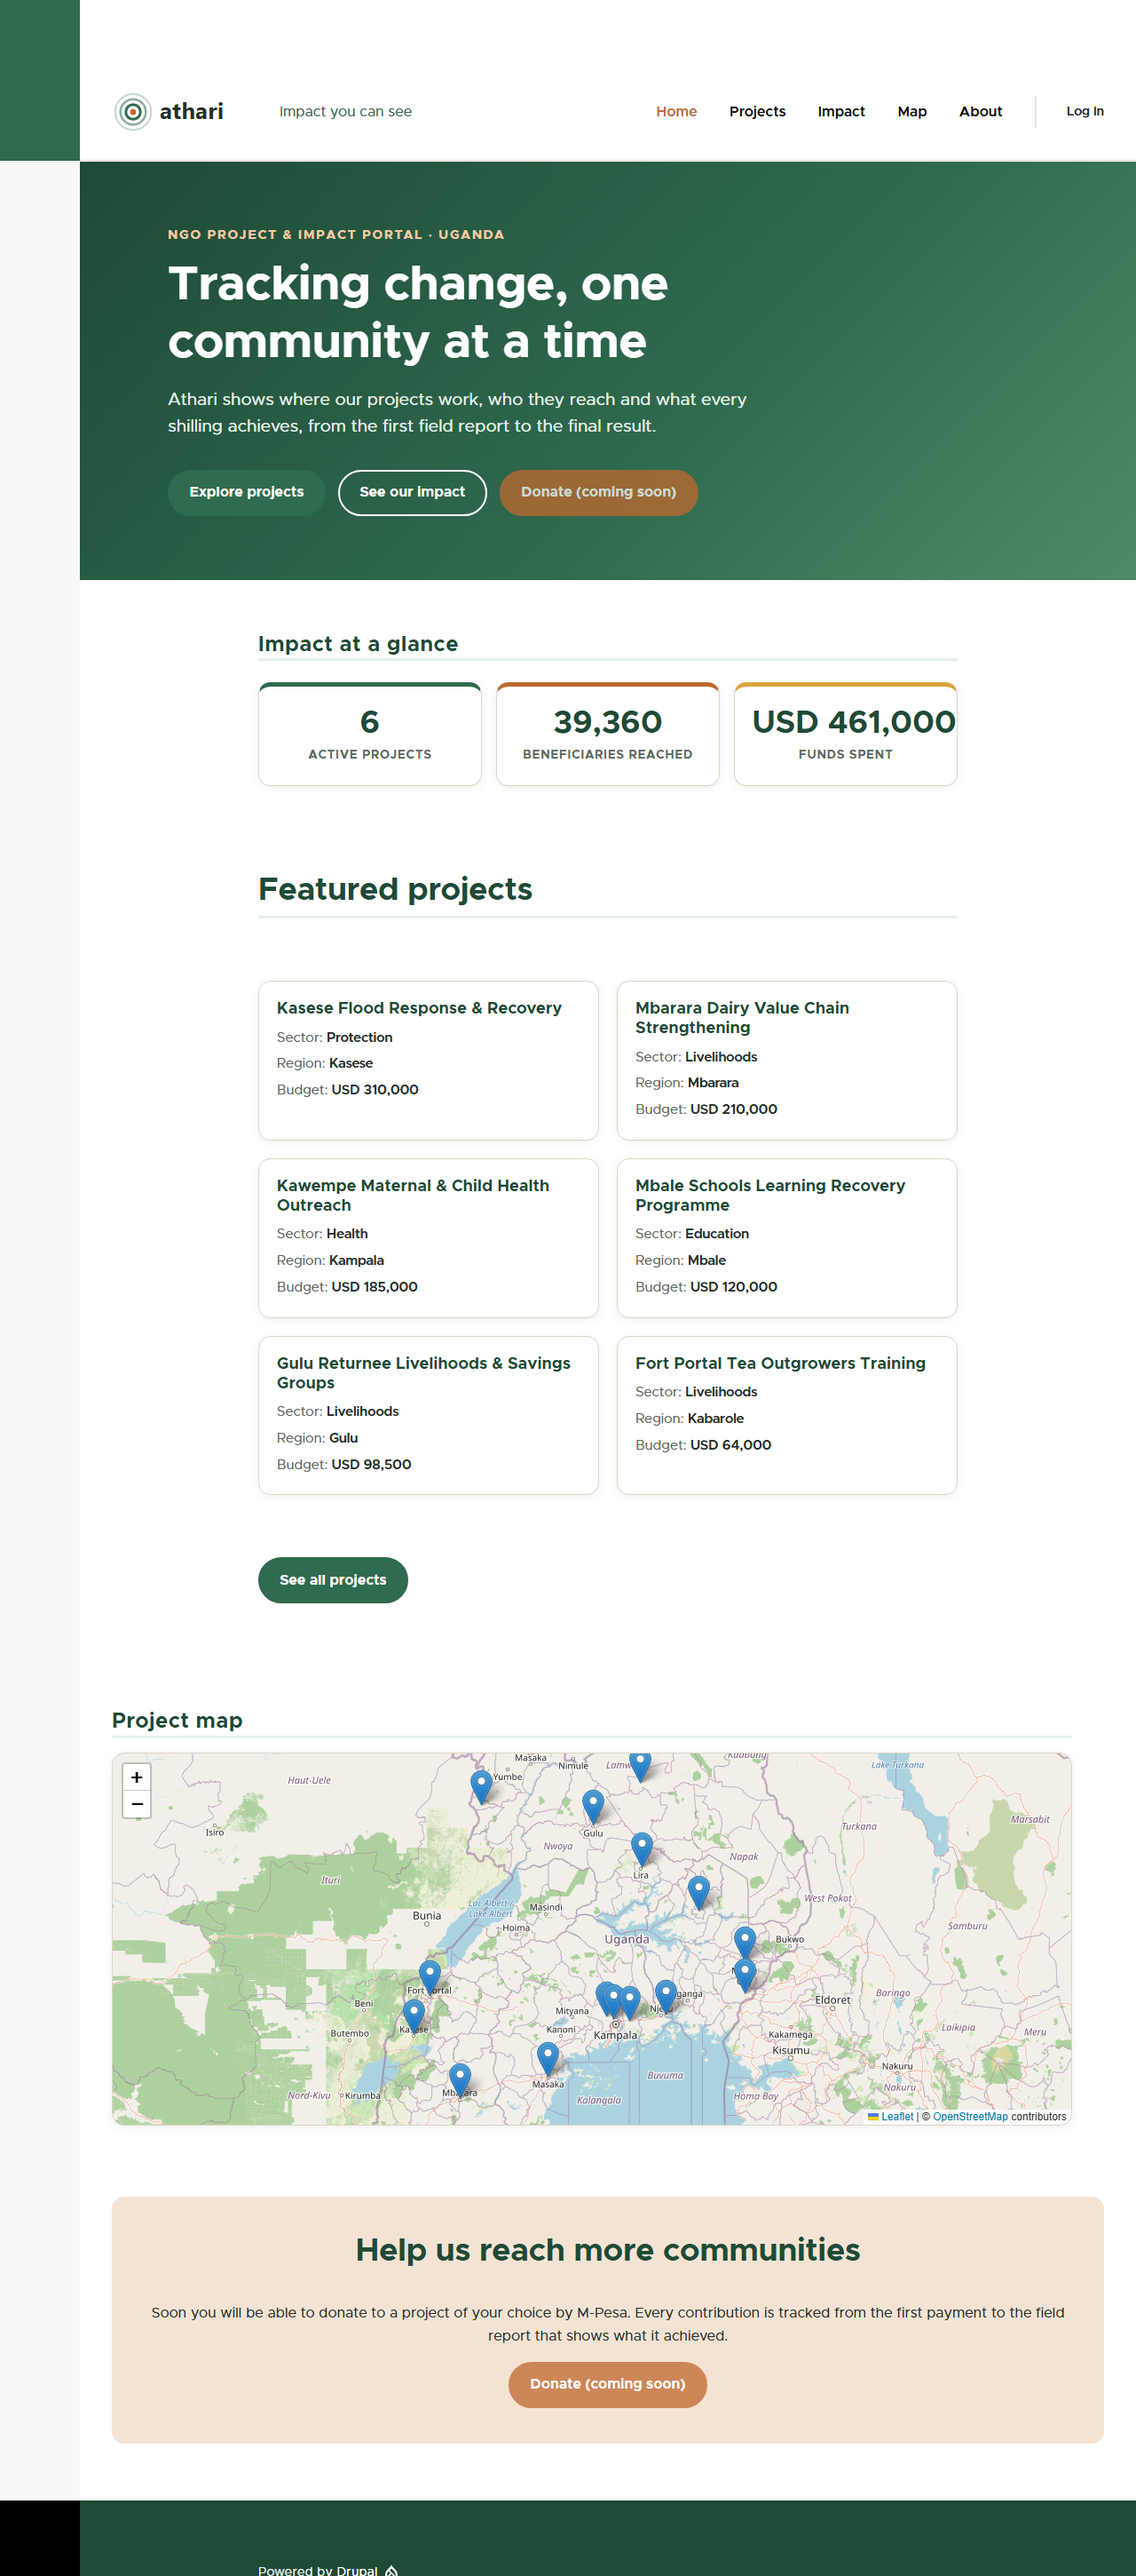
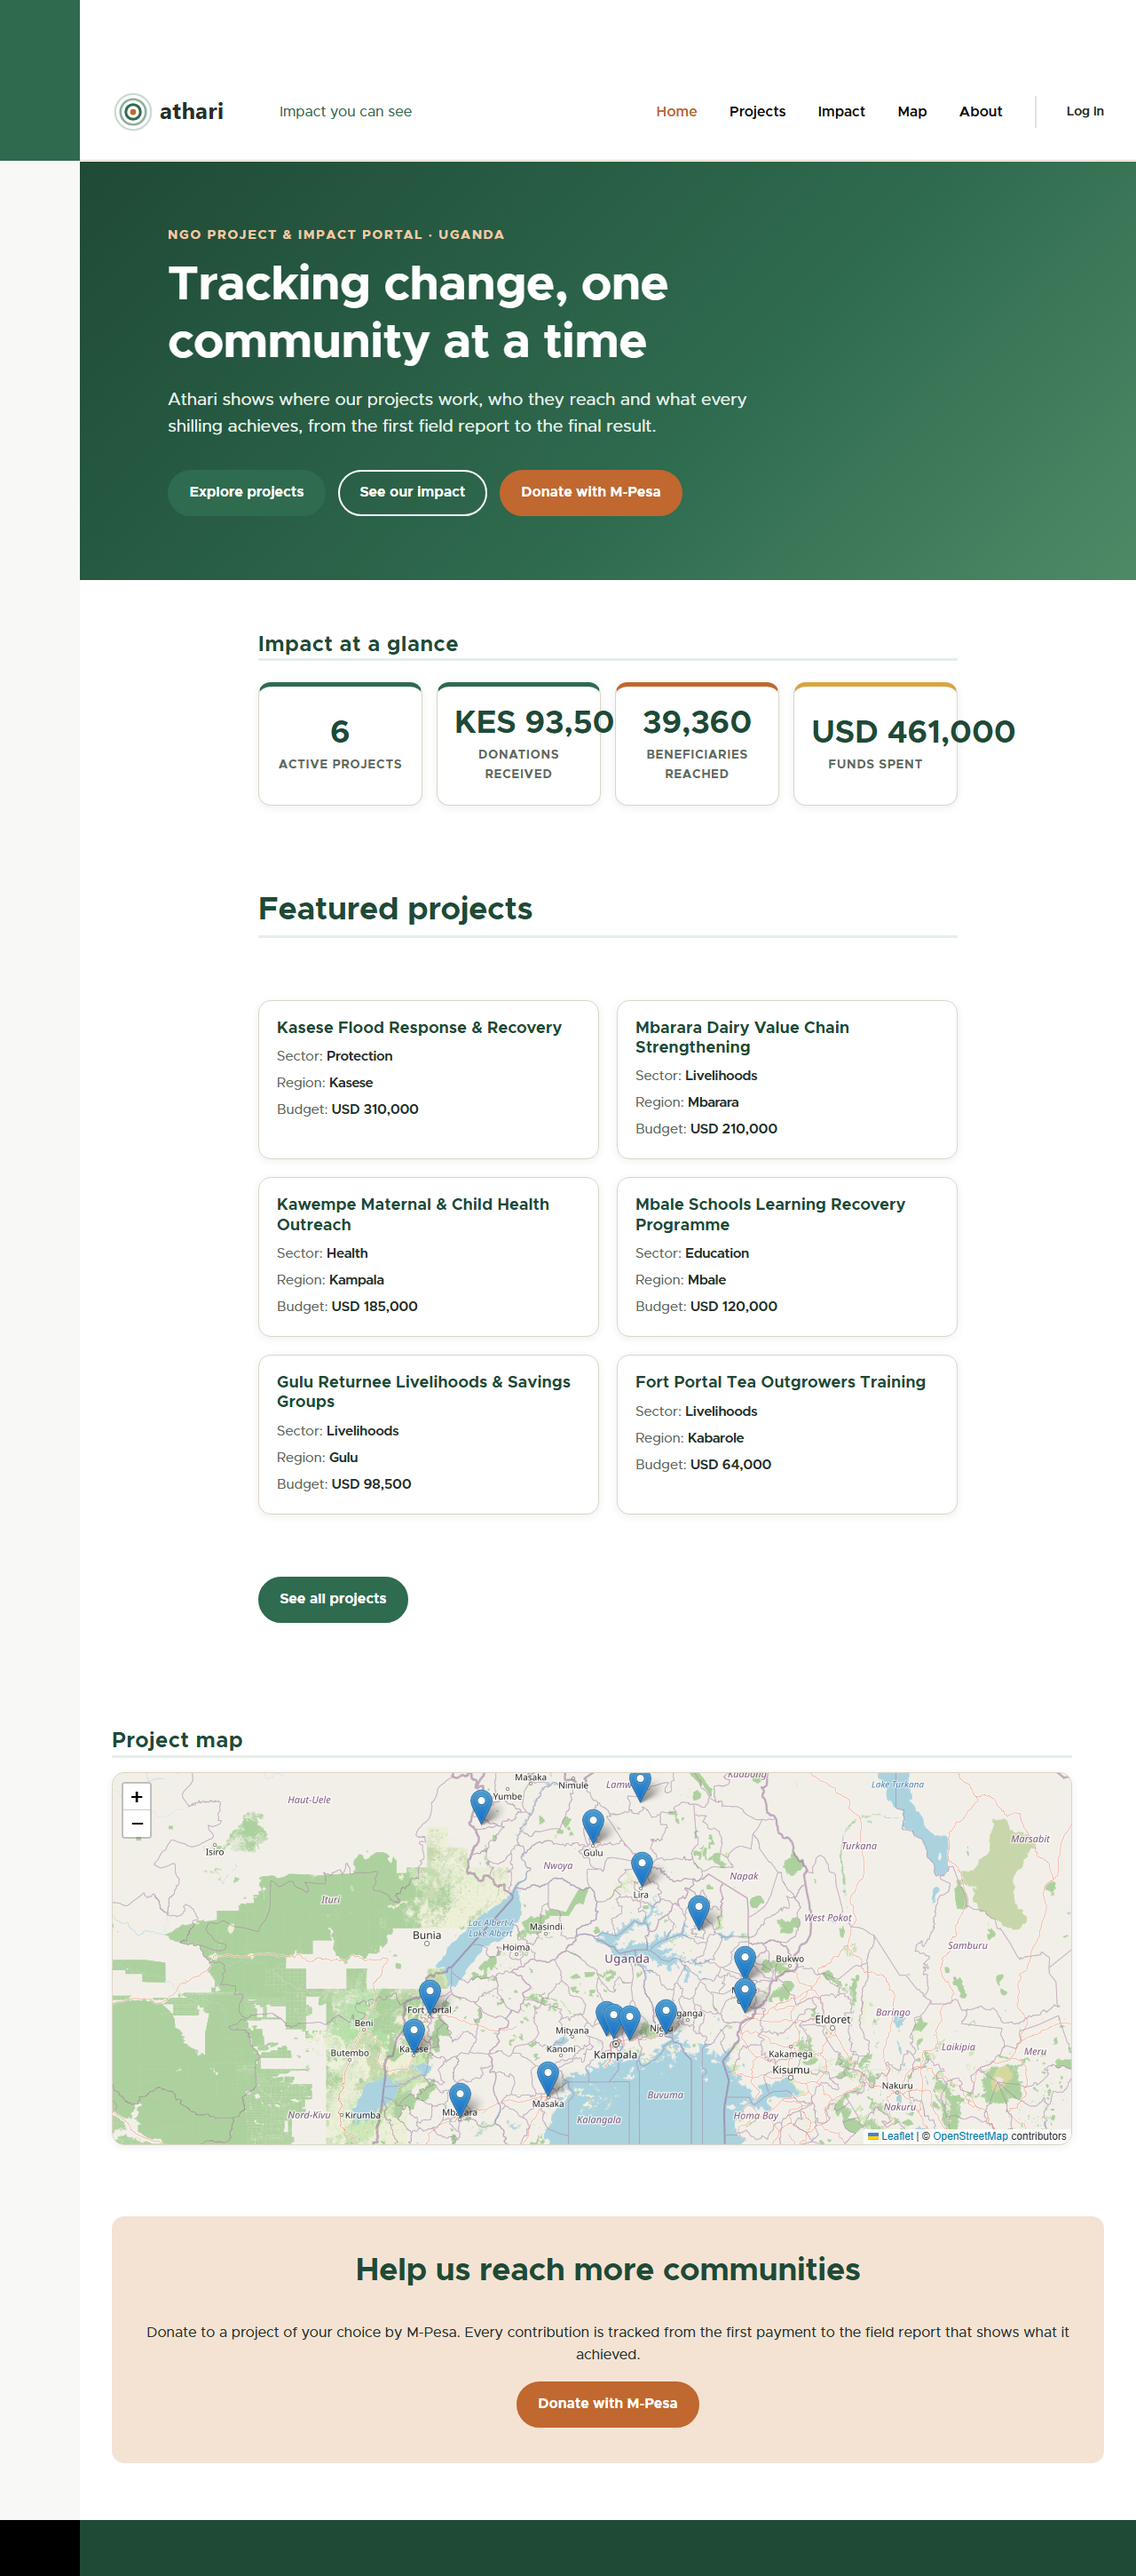
feat: donation status page styling, sample donations, donation page checks and screenshots

diff --git a/web/themes/custom/athari_theme/css/athari.css b/web/themes/custom/athari_theme/css/athari.css
@@ -529,3 +529,59 @@ table.views-table thead th a {
     padding: 2rem 1rem;
   }
 }
+
+/* 14. Donation form and status page (athari_donate) */
+.athari-donation-status {
+  max-width: 36rem;
+  margin: 1rem 0 2rem;
+  padding: 1.5rem;
+  border: 1px solid var(--athari-line);
+  border-left: 6px solid var(--athari-earth);
+  border-radius: var(--athari-radius);
+  background: #fff;
+  box-shadow: var(--athari-shadow);
+}
+
+.athari-donation-status--success {
+  border-left-color: var(--athari-green);
+}
+
+.athari-donation-status--failed,
+.athari-donation-status--cancelled {
+  border-left-color: #a33a2a;
+}
+
+.athari-donation-status__message {
+  margin: 0 0 0.5rem;
+  color: var(--athari-green-dark);
+  font-size: 1.25rem;
+  font-weight: 700;
+}
+
+.athari-donation-status--pending .athari-donation-status__message::after {
+  content: "";
+  display: inline-block;
+  width: 0.9rem;
+  height: 0.9rem;
+  margin-left: 0.6rem;
+  border: 3px solid var(--athari-green-soft);
+  border-top-color: var(--athari-green);
+  border-radius: 50%;
+  animation: athari-spin 0.9s linear infinite;
+}
+
+@keyframes athari-spin {
+  to {
+    transform: rotate(360deg);
+  }
+}
+
+@media (prefers-reduced-motion: reduce) {
+  .athari-donation-status--pending .athari-donation-status__message::after {
+    animation: none;
+  }
+}
+
+#athari-donate-donation-form {
+  max-width: 34rem;
+}

diff --git a/scripts/day4-03-verify-pages.php b/scripts/day4-03-verify-pages.php
@@ -1,0 +1,84 @@
+<?php
+
+/**
+ * @file
+ * Day 4: renders the donation pages as each test user and checks access.
+ *
+ * Output lines: PAGE|role|path|expected|actual|PASS/FAIL.
+ * Run with: ddev drush php:script scripts/day4-03-verify-pages.php
+ */
+
+use Drupal\Core\Session\AnonymousUserSession;
+use Symfony\Component\HttpFoundation\Request;
+use Symfony\Component\HttpKernel\HttpKernelInterface;
+
+$switcher = \Drupal::service('account_switcher');
+$kernel = \Drupal::service('http_kernel');
+$manager = \Drupal::service('athari_donate.donation_manager');
+
+$accounts = [
+  'anonymous' => new AnonymousUserSession(),
+  'fieldofficer' => user_load_by_name('fieldofficer'),
+  'reviewer' => user_load_by_name('reviewer'),
+  'ngoadmin' => user_load_by_name('ngoadmin'),
+];
+
+// A throw-away donation so the status page can be requested.
+$storage = \Drupal::entityTypeManager()->getStorage('node');
+$project = reset($storage->loadByProperties(['type' => 'project', 'title' => 'Kawempe Maternal & Child Health Outreach']));
+$donation = $manager->createPending($project, 5, '254708374149');
+$uuid = $donation->uuid();
+$token = $manager->getCallbackSecret();
+
+// Path => [method, expected status per role: anonymous, officer, reviewer, admin].
+// The POST behaviour of the callback is covered by the kernel test and by real
+// HTTP requests (see the Day 4 report); here only the GET refusal is checked.
+$pages = [
+  '/donate' => ['GET', [200, 200, 200, 200]],
+  '/donate/' . $project->id() => ['GET', [200, 200, 200, 200]],
+  '/donate/status/' . $uuid => ['GET', [200, 200, 200, 200]],
+  '/donate/status/' . $uuid . '/json' => ['GET', [200, 200, 200, 200]],
+  '/donate/status/00000000-0000-0000-0000-000000000000' => ['GET', [404, 404, 404, 404]],
+  '/admin/content/donations' => ['GET', [403, 403, 403, 200]],
+  '/admin/config/athari/donate' => ['GET', [403, 403, 403, 200]],
+  '/athari/mpesa/callback/' . $token => ['GET', [405, 405, 405, 405]],
+  '/projects/' . 'kawempe-maternal-child-health-outreach' => ['GET', [200, 200, 200, 200]],
+  '/' => ['GET', [200, 200, 200, 200]],
+];
+
+$fails = 0;
+$checks = 0;
+foreach ($pages as $path => [$method, $expected]) {
+  $i = 0;
+  foreach ($accounts as $role => $account) {
+    $switcher->switchTo($account);
+    $request = Request::create($path, $method, [], [], [], [], $method === 'POST' ? '{}' : NULL);
+    $response = $kernel->handle($request, HttpKernelInterface::SUB_REQUEST, TRUE);
+    $status = $response->getStatusCode();
+    $switcher->switchBack();
+    $ok = $status === $expected[$i];
+    $fails += $ok ? 0 : 1;
+    $checks++;
+    $label = str_replace([$uuid, $token], ['<uuid>', '<token>'], $path);
+    print "PAGE|$role|$method $label|{$expected[$i]}|$status|" . ($ok ? 'PASS' : 'FAIL') . "\n";
+    $i++;
+  }
+}
+
+// The donation form must show as available only when Daraja is configured.
+$switcher->switchTo($accounts['anonymous']);
+$response = $kernel->handle(Request::create('/donate'), HttpKernelInterface::SUB_REQUEST, TRUE);
+$body = (string) $response->getContent();
+$switcher->switchBack();
+foreach ([
+  'form has phone field' => str_contains($body, 'name="phone"'),
+  'form has amount field' => str_contains($body, 'name="amount"'),
+  'form has project select' => str_contains($body, 'name="project"'),
+] as $what => $found) {
+  $checks++;
+  $fails += $found ? 0 : 1;
+  print "PAGE|anonymous|$what|yes|" . ($found ? 'yes' : 'no') . '|' . ($found ? 'PASS' : 'FAIL') . "\n";
+}
+
+$donation->delete();
+print "SUMMARY|" . ($fails === 0 ? "ALL $checks DONATION PAGE CHECKS PASSED" : "$fails of $checks CHECK(S) FAILED") . "\n";

diff --git a/scripts/day4-04-seed-donations.php b/scripts/day4-04-seed-donations.php
@@ -1,0 +1,68 @@
+<?php
+
+/**
+ * @file
+ * Day 4: sample donations so the totals and the admin report have data.
+ *
+ * Every row is fictional: phone numbers are in the 2547000000xx range and the
+ * receipts start with SEED. Safe to re-run (receipts are unique).
+ *
+ * Run with: ddev drush php:script scripts/day4-04-seed-donations.php
+ */
+
+use Drupal\athari_donate\DonationInterface;
+
+$storage = \Drupal::entityTypeManager()->getStorage('athari_donation');
+$nodes = \Drupal::entityTypeManager()->getStorage('node');
+$now = \Drupal::time()->getRequestTime();
+
+// Project title => list of [amount KES, status, days ago].
+$plan = [
+  'Kawempe Maternal & Child Health Outreach' => [[5000, 'success', 52], [1000, 'success', 31], [20000, 'success', 12], [2500, 'failed', 9]],
+  'Mbale Schools Learning Recovery Programme' => [[1500, 'success', 47], [10000, 'success', 26], [500, 'cancelled', 20]],
+  'Gulu Returnee Livelihoods & Savings Groups' => [[2500, 'success', 40], [5000, 'success', 18]],
+  'Mbarara Dairy Value Chain Strengthening' => [[7500, 'success', 35], [1000, 'success', 15], [3000, 'failed', 6]],
+  'Fort Portal Tea Outgrowers Training' => [[2000, 'success', 29], [500, 'success', 10]],
+  'Kasese Flood Response & Recovery' => [[10000, 'success', 24], [20000, 'success', 14], [5000, 'success', 5], [1000, 'cancelled', 3], [2500, 'success', 1]],
+];
+
+$created = 0;
+$n = 0;
+foreach ($plan as $title => $rows) {
+  $found = $nodes->loadByProperties(['type' => 'project', 'title' => $title]);
+  if (!$found) {
+    print "Project not found: $title\n";
+    continue;
+  }
+  $project = reset($found);
+  foreach ($rows as [$amount, $status, $days]) {
+    $n++;
+    $receipt = sprintf('SEED%06d', $n);
+    $success = $status === DonationInterface::STATUS_SUCCESS;
+    if ($storage->loadByProperties(['checkout_request_id' => 'seed_' . $receipt])) {
+      continue;
+    }
+    $when = $now - ($days * 86400) - random_int(0, 40000);
+    $donation = $storage->create([
+      'project' => $project->id(),
+      'amount' => $amount,
+      'phone' => sprintf('2547000000%02d', ($n % 90) + 10),
+      'status' => $status,
+      'mpesa_receipt' => $success ? $receipt : '',
+      'merchant_request_id' => 'seed_m_' . $n,
+      'checkout_request_id' => 'seed_' . $receipt,
+      'result_code' => $success ? 0 : ($status === 'cancelled' ? 1032 : 1),
+      'result_desc' => match ($status) {
+        'success' => 'The service request is processed successfully.',
+        'cancelled' => 'Request cancelled by user',
+        default => 'The balance is insufficient for the transaction',
+      },
+      'paid' => $success ? $when + 25 : NULL,
+      'created' => $when,
+      'changed' => $when + 25,
+    ]);
+    $donation->save();
+    $created++;
+  }
+}
+print "Sample donations created: $created\n";
